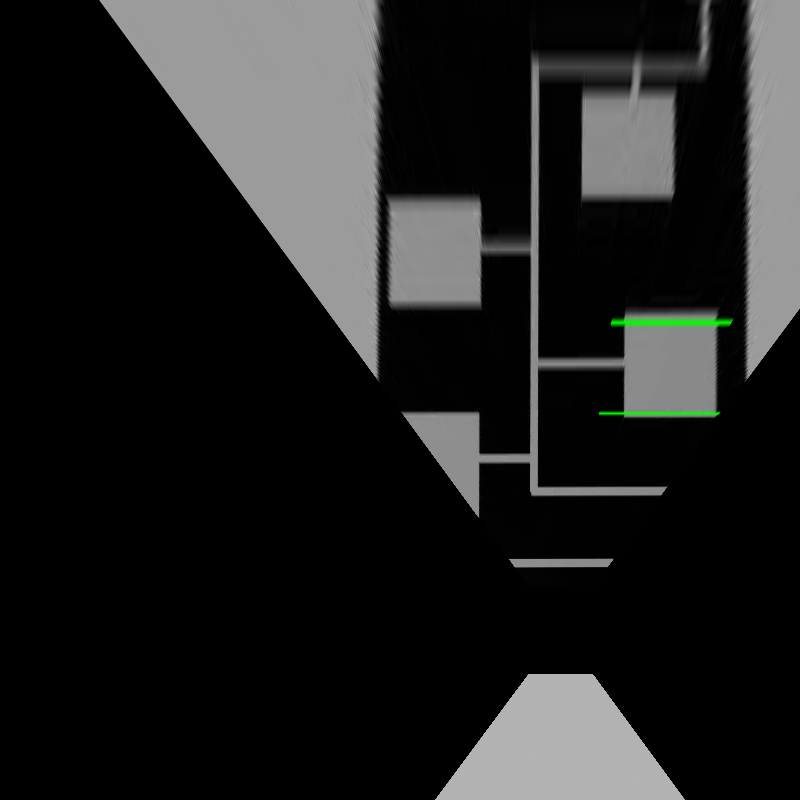
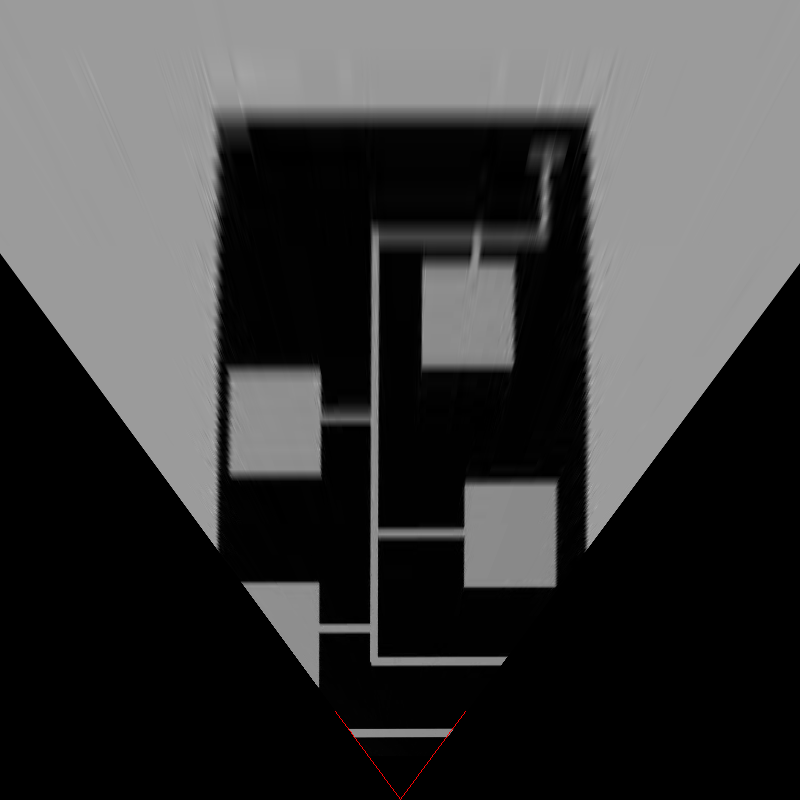
add you-are-here

diff --git a/cvplayground.py b/cvplayground.py
@@ -8,47 +8,91 @@ def get_point(event,x,y,flags,param):
         cv2.circle(img,(x,y),1,(255,0,0),-1)
         print x,y
 
-def scale_output_square(factor,points):
+#quick fix for playing with the output position of the calibration
+#  quadrilateral such that we are zoomed out correctly
+def tune_output_square(scale,translate,points):
 	newpoints = deepcopy(points)
 	avg_x = (points[0][0] + points[1][0] + points[2][0] + points[3][0])/4
 	avg_y = (points[0][1] + points[1][1] + points[2][1] + points[3][1])/4
 	for n in range(0,4):
-		newpoints[n][0] = avg_x - (avg_x - points[n][0])*factor
-		newpoints[n][1] = avg_y - (avg_y - points[n][1])*factor
+		newpoints[n][0] = avg_x - (avg_x - points[n][0])*scale + translate[0]
+		newpoints[n][1] = avg_y - (avg_y - points[n][1])*scale + translate[1]
 	return newpoints
+
+#for helping me find the corners of the square..
+#  This just outputs the px values on a horizontal line on the image
+#  and then paints this line green for reference
+def sample_lines():
+	for n in range(493,794):
+	 	print (img[481,n])
+	 	img[481,n] = (0,255,0)
+	 	print n
+	print "NEEEEEXT\n\n\n\n\n\n\n"
+	for n in range(486,698):
+	 	print (img[457,n])
+	 	img[457,n] = (0,255,0)
+	 	print n
+
+def find_vertex(M,imgx):
+	#initialize boundary points
+	points = np.matrix([[0,   0    , 800, 800],
+					    [600, 800  , 600, 800],
+					    [1, 1    , 1  , 1  ]])
+	#calculate transformed points (in homogeneous coordinates)
+	homopoints = M * points
+	#convert homogeneous points to xy
+	newpoints = np.zeros((2,4))
+	for i in range(0,2):
+		for j in range(0,4):
+			newpoints[i,j] = homopoints[i,j]/homopoints[2,j]
+
+	print newpoints
+	#calculate line parameters for both boundaries
+	m1 = (newpoints[1,1] - newpoints[1,0]) / (newpoints[0,1] - newpoints[0,0])
+	m2 = (newpoints[1,3] - newpoints[1,2]) / (newpoints[0,3] - newpoints[0,2])
+	b1 = newpoints[1,0] - m1*newpoints[0,0]
+	b2 = newpoints[1,2] - m2*newpoints[0,2]
+	#calculate intersection point of these lines
+	xint = (b1-b2)/(m2-m1)
+	yint = (m1*xint+b1)
+	cv2.line(imgx, (int(newpoints[0,0]),int(newpoints[1,0])) , (int(xint),int(yint)) , (0,0,255),1)
+	cv2.line(imgx, (int(newpoints[0,2]),int(newpoints[1,2])) , (int(xint),int(yint)) , (0,0,255),1)
+	print xint, yint
+
+
+
+
+
 
 img_location = 'course.jpeg'
 img = cv2.imread(img_location)
 rows,cols,ch = img.shape
 print rows, cols, ch
 
+#set up clicking behavior on the raw image
 cv2.namedWindow('image')
 cv2.setMouseCallback('image',get_point)
 #cv2.waitKey(0)
 
-#help me find the coners of the square
-for n in range(493,794):
- 	print (img[481,n])
- 	img[481,n] = (0,255,0)
- 	print n
-print "NEEEEEXT\n\n\n\n\n\n\n"
-for n in range(486,698):
- 	print (img[457,n])
- 	img[457,n] = (0,255,0)
- 	print n
+#sample_lines()
 
 #calculate xform matrix
 orig = np.float32([[556,481],[509,457],[783,481],[669,457]])
 #assuming square is 227px big
 guess = np.float32([[556,481],[556,254],[783,481],[783,254]])
-new = scale_output_square(.4,guess)
-print new
+new = tune_output_square(.4,[-160,170],guess)
 
+#calculate transform matrix
 M = cv2.getPerspectiveTransform(orig,new)
 
+#remap original image by applying transform matrix
 imgx = cv2.warpPerspective(img,M,(800,800))
+
+#figure out if the vertex is in the right location
+find_vertex(M,imgx)
+
+#write image
 cv2.imwrite('xformed.png',imgx)
-print M
 
 while(1):
     cv2.imshow('image',img)
